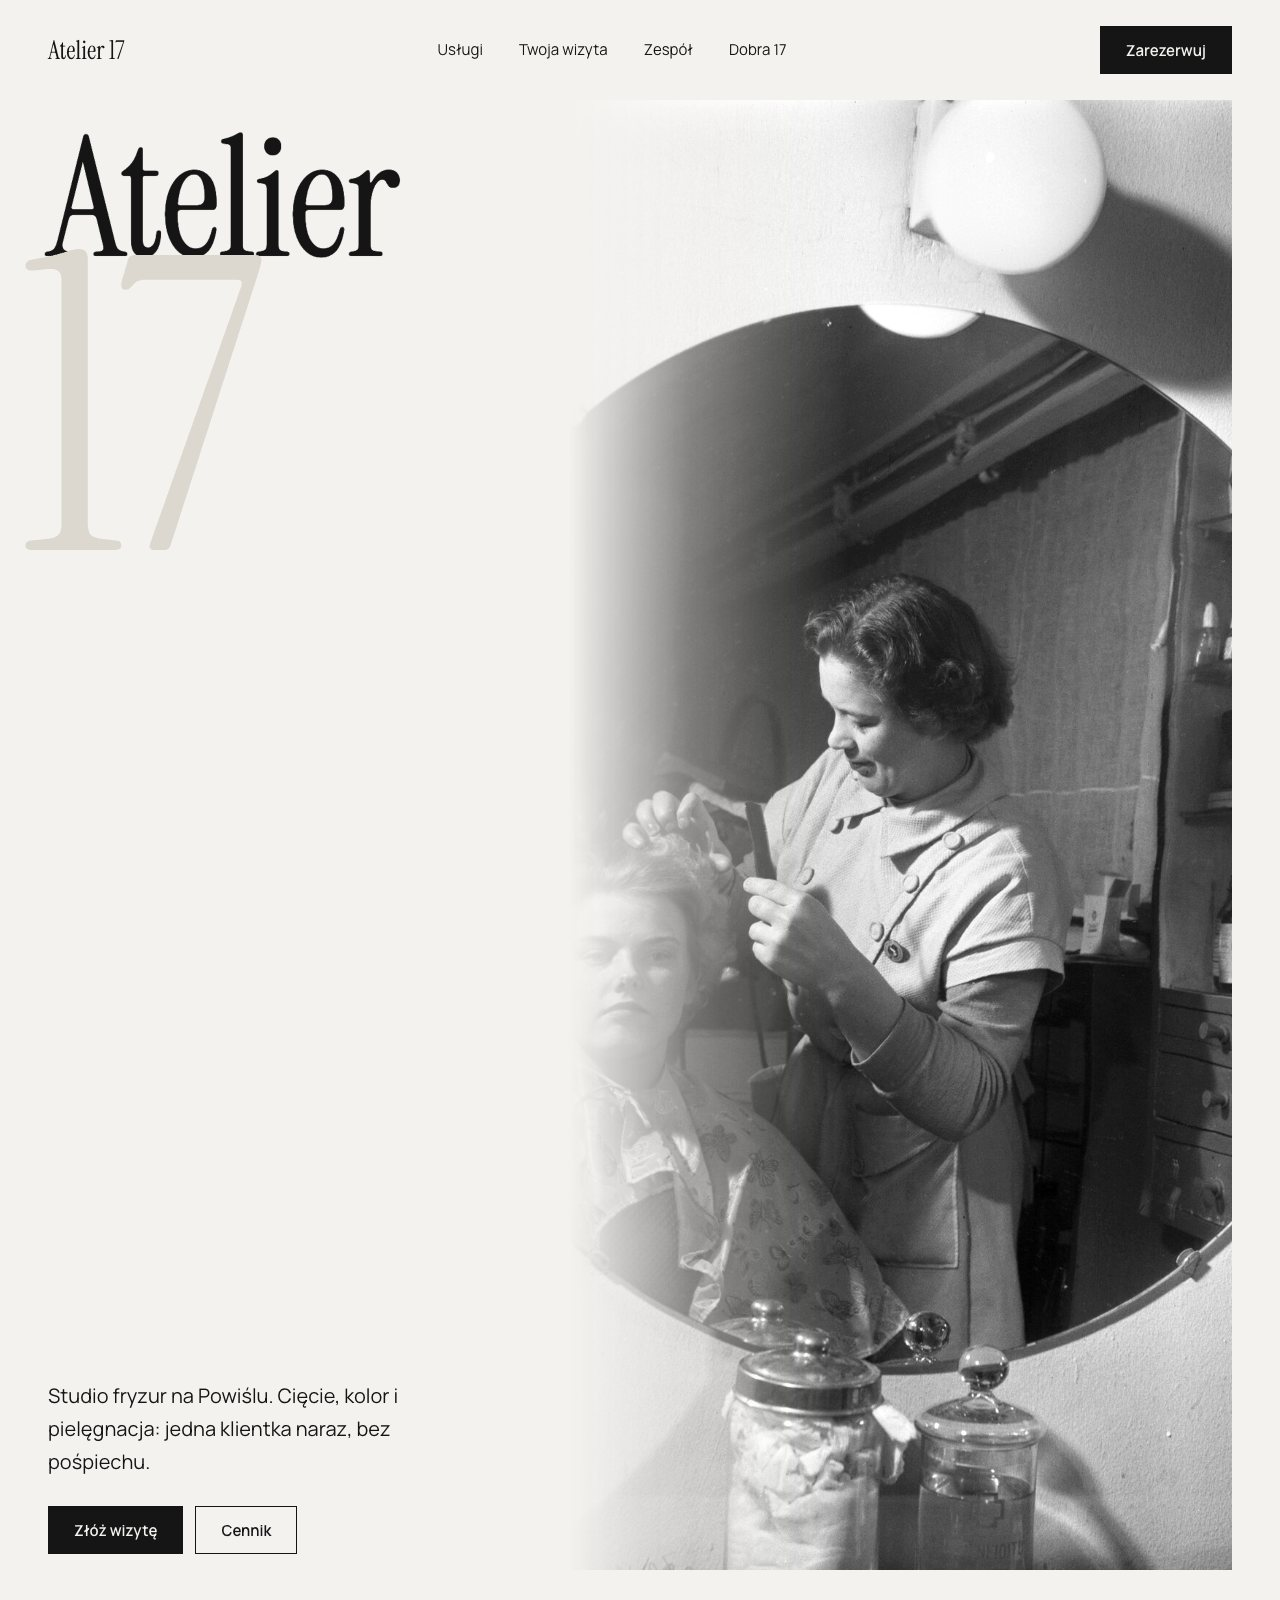
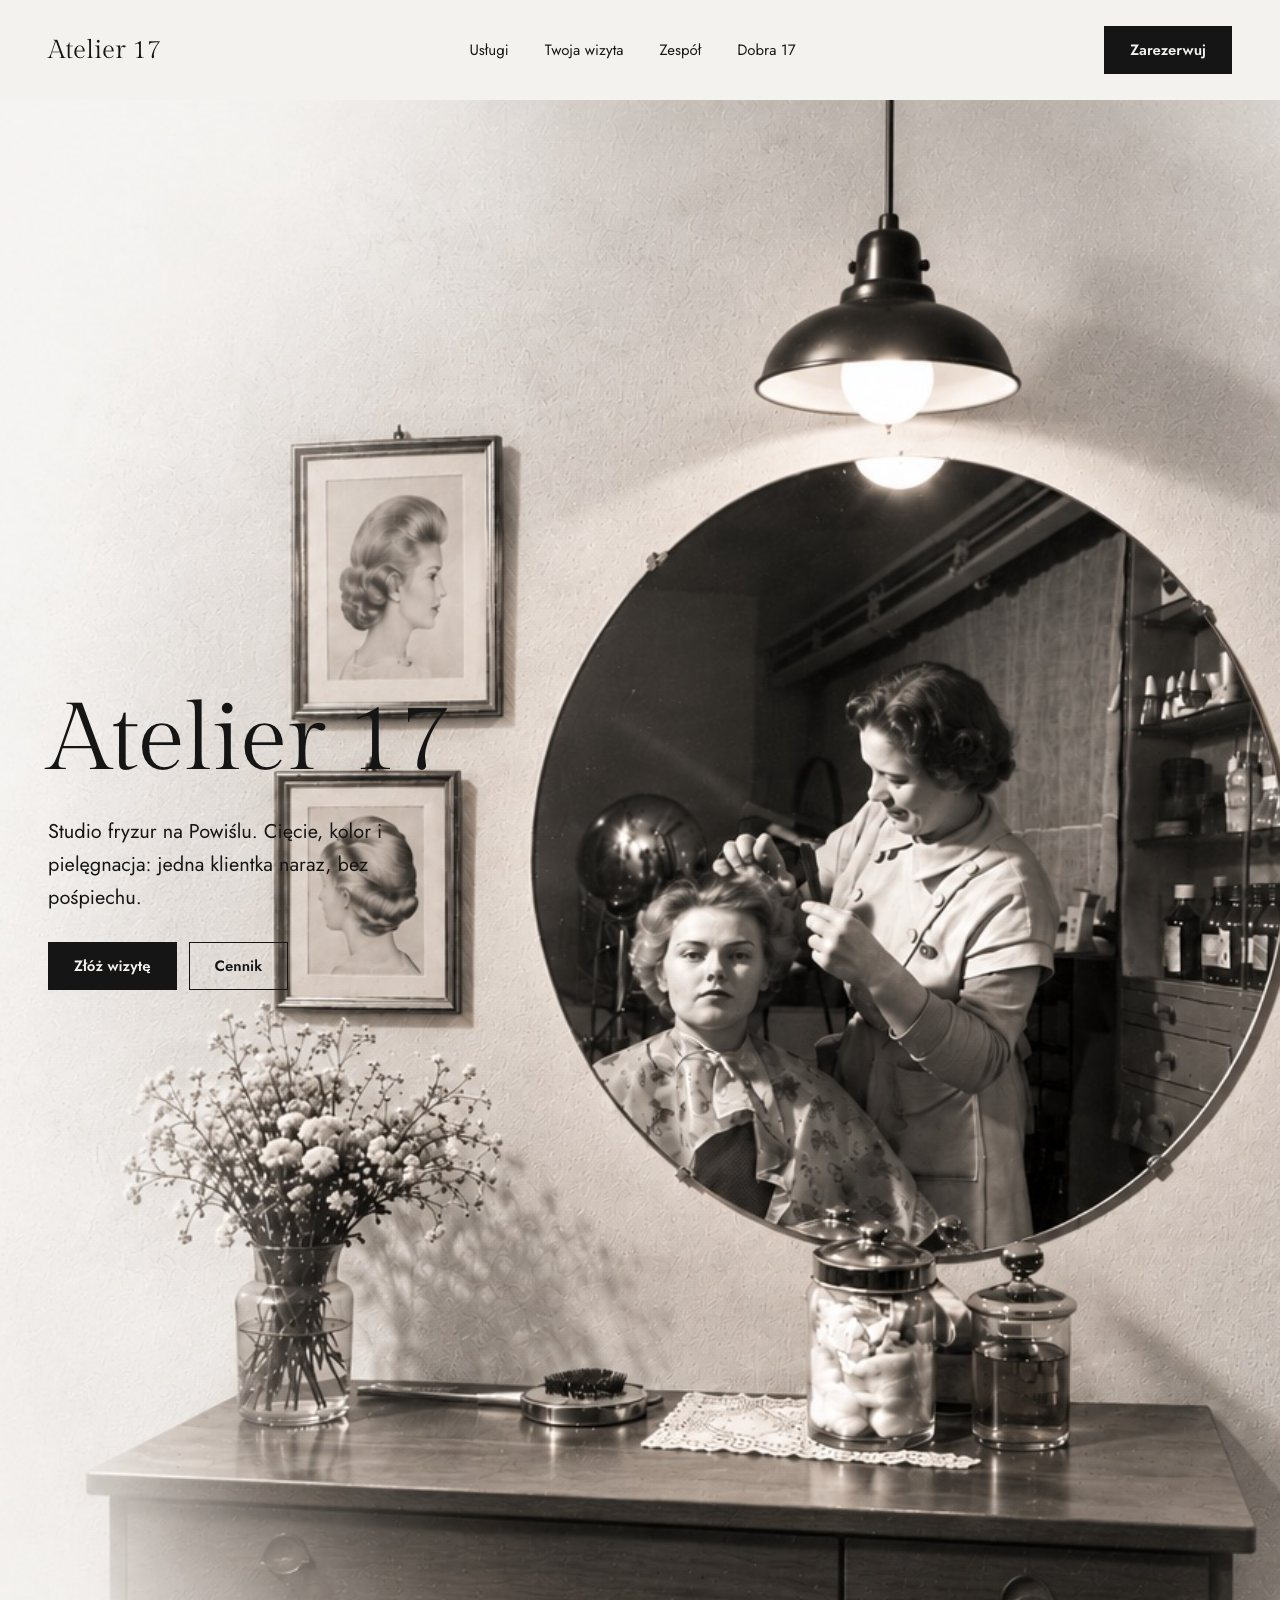
Atelier 17: nowy kadr pierwszego ekranu (lustro i toaletka), Gilda Display + Jost

diff --git a/design/concepts/atelier-17.html b/design/concepts/atelier-17.html
@@ -8,12 +8,12 @@
 <meta name="robots" content="noindex">
 <link rel="preconnect" href="https://fonts.googleapis.com">
 <link rel="preconnect" href="https://fonts.gstatic.com" crossorigin>
-<link href="https://fonts.googleapis.com/css2?family=Instrument+Serif:ital@0;1&family=Manrope:wght@400;500;600&display=swap" rel="stylesheet">
+<link href="https://fonts.googleapis.com/css2?family=Gilda+Display&family=Jost:wght@400;500;600&display=swap" rel="stylesheet">
 <script>document.documentElement.classList.add("js")</script>
 <style>
   :root {
     --white:#f4f2ef; --stone:#dcd7cf; --stone-2:#e9e5df; --ink:#151515; --ink-2:#3f3d3a; --mute:#6e6a64; --clay:#a35d43; --clay-deep:#8a4a33; --night:#151515; --night-ink:#c9c4bc;
-    --display:"Instrument Serif", Georgia, serif; --text:"Manrope", system-ui, sans-serif;
+    --display:"Gilda Display", "Didot", Georgia, serif; --text:"Jost", "Futura", system-ui, sans-serif;
     --ease-out:cubic-bezier(.22,1,.36,1); --gutter:48px;
   }
   * { box-sizing:border-box; margin:0; }
@@ -50,17 +50,16 @@
   .sheet a:not(.btn) { font:400 56px/1.15 var(--display); text-decoration:none; }
   .sheet .btn { margin-top:28px; align-self:start; }
 
-  .hero { display:grid; grid-template-columns:minmax(0,1fr) minmax(0,1fr); padding:0 var(--gutter); min-height:calc(100svh - 90px); }
-  .hero .l { display:flex; flex-direction:column; justify-content:space-between; padding:32px 48px 56px 0; gap:40px; }
-  .hero h1 { font-size:clamp(90px, 13vw, 210px); line-height:.82; animation:fade 1400ms var(--ease-out) both; }
-  .hero .num { font-size:clamp(240px, 32vw, 500px); line-height:.7; color:var(--stone); margin-left:-.06em; animation:door 1600ms 200ms var(--ease-out) both; }
+  .hero { position:relative; isolation:isolate; overflow:hidden; display:grid; grid-template-columns:minmax(0, 520px) 1fr; padding:0 var(--gutter); min-height:calc(100svh - 90px); background:#ece7df; }
+  .hero .l { display:flex; flex-direction:column; justify-content:center; padding:48px 0 72px; gap:30px; }
+  .hero h1 { font-size:clamp(64px, 7.4vw, 124px); line-height:.95; letter-spacing:-.01em; animation:fade 1400ms var(--ease-out) both; }
   @keyframes fade { from { opacity:0; transform:translateY(20px); } to { opacity:1; transform:none; } }
   @keyframes door { from { opacity:0; letter-spacing:.2em; } to { opacity:1; letter-spacing:-.01em; } }
   .hero p { max-width:34ch; font-size:20px; }
   .hero .acts { display:flex; gap:12px; flex-wrap:wrap; margin-top:28px; }
-  .hero figure { height:calc(100svh - 130px); min-height:620px; overflow:hidden; margin-left:-12%; -webkit-mask-image:linear-gradient(to right, transparent 0, rgba(0,0,0,.55) 18%, #000 42%); mask-image:linear-gradient(to right, transparent 0, rgba(0,0,0,.55) 18%, #000 42%); }
+  .hero figure { position:absolute; inset:0; z-index:-1; margin:0; }
   .hero .l { position:relative; z-index:2; }
-  .hero img { width:100%; height:100%; object-fit:cover; filter:grayscale(1) contrast(1.05); animation:settle 2400ms var(--ease-out) both; }
+  .hero img { width:100%; height:100%; object-fit:cover; object-position:68% 45%; animation:settle 2400ms var(--ease-out) both; }
   @keyframes settle { from { transform:scale(1.07); } to { transform:none; } }
 
   .one { display:grid; grid-template-columns:minmax(0,.9fr) minmax(0,1.1fr); gap:72px; padding:144px var(--gutter); align-items:center; }
@@ -149,8 +148,7 @@
   @media (max-width:760px) {
     :root { --gutter:20px; }
     nav.top { padding:18px 20px; } nav.top .links, nav.top > .btn { display:none; } .menu-btn { display:block; }
-    .hero { grid-template-columns:1fr; min-height:0; } .hero .l { padding:16px 0 40px; gap:28px; } .hero figure { height:480px; min-height:0; margin:-40px -20px 0; -webkit-mask-image:linear-gradient(to bottom, transparent 0, #000 34%); mask-image:linear-gradient(to bottom, transparent 0, #000 34%); }
-    .hero .num { font-size:200px; }
+    .hero { display:flex; flex-direction:column-reverse; min-height:0; padding:0; background:var(--white); } .hero .l { padding:28px 20px 44px; gap:22px; } .hero figure { position:relative; inset:auto; z-index:0; height:min(78vw, 360px); } .hero img { object-position:72% 50%; }
     .one { grid-template-columns:1fr; padding:80px 20px; gap:40px; } .one .cols { grid-template-columns:1fr; gap:24px; }
     .services { padding:80px 20px; } .services-head { flex-direction:column; align-items:start; margin-bottom:40px; } .groups { grid-template-columns:1fr; gap:44px; }
       .plan { padding:80px 20px; } .plan-head { grid-template-columns:1fr; gap:16px; margin-bottom:40px; } .plan-head p { justify-self:start; }
@@ -181,13 +179,13 @@
 <main id="top">
 <section class="hero">
   <div class="l">
-    <div><h1 class="it">Atelier</h1><div class="it num" aria-hidden="true">17</div></div>
+    <h1 class="it">Atelier&nbsp;17</h1>
     <div>
       <p>Studio fryzur na Powiślu. Cięcie, kolor i pielęgnacja: jedna klientka naraz, bez pośpiechu.</p>
       <div class="acts"><a class="btn" href="#wizyta">Złóż wizytę</a><a class="btn line" href="#uslugi">Cennik</a></div>
     </div>
   </div>
-  <figure><img src="assets/hairdresser.jpg" width="1920" height="2014" alt="Fryzjerka układa włosy klientki, oboje odbici w okrągłym lustrze, fotografia z 1953 roku"></figure>
+  <figure><img src="assets/atelier-lustro.jpg" width="1536" height="1024" alt="Okrągłe lustro nad toaletką: fryzjerka układa fale klientce, obok wazon z gipsówką i ryciny fryzur w ramkach" fetchpriority="high"></figure>
 </section>
 
 <section class="one" data-reveal>
@@ -300,7 +298,7 @@
 <footer>
   <div class="big it" aria-hidden="true">17</div>
   <div class="row"><span>Atelier 17, studio fryzur<br>ul. Dobra 17, Powiśle</span><span>Strona: ROVBA Design</span></div>
-  <p class="credits">Zdjęcia: <a href="https://commons.wikimedia.org/wiki/File:Hairdresser_1953_(JOKAUAS2_2203-10).tif">fryzjerka przy lustrze, 1953</a> U. A. Saarinen, CC BY 4.0; <a href="https://commons.wikimedia.org/wiki/File:Harry_Fell,_hairdresser,_Melbourne,_28_October_1952_-_Flickr_-_State_Library_of_NSW.jpg">Harry Fell, 1952</a> State Library of New South Wales, bez znanych ograniczeń; <a href="https://www.rawpixel.com/image/8736354/beauty-shop-1943-oak-ridge">salon w Oak Ridge, 1943</a> US DOE, CC0; <a href="https://commons.wikimedia.org/wiki/File:Cutting_hair_-_haircuts.jpg">cięcie</a>, <a href="https://commons.wikimedia.org/wiki/File:Tinting_Brush_for_Dying_Hair.jpg">pędzel do koloru</a> i <a href="https://commons.wikimedia.org/wiki/File:Pamper_Day_-_Haircare_Products_-_50888163522.jpg">pielęgnacja</a> geehairimages, CC BY 2.0; <a href="https://commons.wikimedia.org/wiki/File:Warszawa_Powi%C5%9Ble_train_station.07.jpg">stacja Powiśle</a> Nenea hartia, CC BY-SA 4.0; <a href="https://commons.wikimedia.org/w/index.php?curid=42157137">bulwary</a> Dariusz Kowalczyk, CC BY-SA 4.0. Zdjęcia nie przedstawiają salonu Atelier 17.</p>
+  <p class="credits">Kadr pierwszego ekranu: wizualizacja przygotowana dla projektu. Zdjęcia: <a href="https://commons.wikimedia.org/wiki/File:Harry_Fell,_hairdresser,_Melbourne,_28_October_1952_-_Flickr_-_State_Library_of_NSW.jpg">Harry Fell, 1952</a> State Library of New South Wales, bez znanych ograniczeń; <a href="https://www.rawpixel.com/image/8736354/beauty-shop-1943-oak-ridge">salon w Oak Ridge, 1943</a> US DOE, CC0; <a href="https://commons.wikimedia.org/wiki/File:Cutting_hair_-_haircuts.jpg">cięcie</a>, <a href="https://commons.wikimedia.org/wiki/File:Tinting_Brush_for_Dying_Hair.jpg">pędzel do koloru</a> i <a href="https://commons.wikimedia.org/wiki/File:Pamper_Day_-_Haircare_Products_-_50888163522.jpg">pielęgnacja</a> geehairimages, CC BY 2.0; <a href="https://commons.wikimedia.org/wiki/File:Warszawa_Powi%C5%9Ble_train_station.07.jpg">stacja Powiśle</a> Nenea hartia, CC BY-SA 4.0; <a href="https://commons.wikimedia.org/w/index.php?curid=42157137">bulwary</a> Dariusz Kowalczyk, CC BY-SA 4.0. Zdjęcia nie przedstawiają salonu Atelier 17.</p>
 </footer>
 
 <script src="assets/concept.js"></script>

diff --git a/public/demo/concepts/atelier-17.html b/public/demo/concepts/atelier-17.html
@@ -8,12 +8,12 @@
 <meta name="robots" content="noindex">
 <link rel="preconnect" href="https://fonts.googleapis.com">
 <link rel="preconnect" href="https://fonts.gstatic.com" crossorigin>
-<link href="https://fonts.googleapis.com/css2?family=Instrument+Serif:ital@0;1&family=Manrope:wght@400;500;600&display=swap" rel="stylesheet">
+<link href="https://fonts.googleapis.com/css2?family=Gilda+Display&family=Jost:wght@400;500;600&display=swap" rel="stylesheet">
 <script>document.documentElement.classList.add("js")</script>
 <style>
   :root {
     --white:#f4f2ef; --stone:#dcd7cf; --stone-2:#e9e5df; --ink:#151515; --ink-2:#3f3d3a; --mute:#6e6a64; --clay:#a35d43; --clay-deep:#8a4a33; --night:#151515; --night-ink:#c9c4bc;
-    --display:"Instrument Serif", Georgia, serif; --text:"Manrope", system-ui, sans-serif;
+    --display:"Gilda Display", "Didot", Georgia, serif; --text:"Jost", "Futura", system-ui, sans-serif;
     --ease-out:cubic-bezier(.22,1,.36,1); --gutter:48px;
   }
   * { box-sizing:border-box; margin:0; }
@@ -50,17 +50,16 @@
   .sheet a:not(.btn) { font:400 56px/1.15 var(--display); text-decoration:none; }
   .sheet .btn { margin-top:28px; align-self:start; }
 
-  .hero { display:grid; grid-template-columns:minmax(0,1fr) minmax(0,1fr); padding:0 var(--gutter); min-height:calc(100svh - 90px); }
-  .hero .l { display:flex; flex-direction:column; justify-content:space-between; padding:32px 48px 56px 0; gap:40px; }
-  .hero h1 { font-size:clamp(90px, 13vw, 210px); line-height:.82; animation:fade 1400ms var(--ease-out) both; }
-  .hero .num { font-size:clamp(240px, 32vw, 500px); line-height:.7; color:var(--stone); margin-left:-.06em; animation:door 1600ms 200ms var(--ease-out) both; }
+  .hero { position:relative; isolation:isolate; overflow:hidden; display:grid; grid-template-columns:minmax(0, 520px) 1fr; padding:0 var(--gutter); min-height:calc(100svh - 90px); background:#ece7df; }
+  .hero .l { display:flex; flex-direction:column; justify-content:center; padding:48px 0 72px; gap:30px; }
+  .hero h1 { font-size:clamp(64px, 7.4vw, 124px); line-height:.95; letter-spacing:-.01em; animation:fade 1400ms var(--ease-out) both; }
   @keyframes fade { from { opacity:0; transform:translateY(20px); } to { opacity:1; transform:none; } }
   @keyframes door { from { opacity:0; letter-spacing:.2em; } to { opacity:1; letter-spacing:-.01em; } }
   .hero p { max-width:34ch; font-size:20px; }
   .hero .acts { display:flex; gap:12px; flex-wrap:wrap; margin-top:28px; }
-  .hero figure { height:calc(100svh - 130px); min-height:620px; overflow:hidden; margin-left:-12%; -webkit-mask-image:linear-gradient(to right, transparent 0, rgba(0,0,0,.55) 18%, #000 42%); mask-image:linear-gradient(to right, transparent 0, rgba(0,0,0,.55) 18%, #000 42%); }
+  .hero figure { position:absolute; inset:0; z-index:-1; margin:0; }
   .hero .l { position:relative; z-index:2; }
-  .hero img { width:100%; height:100%; object-fit:cover; filter:grayscale(1) contrast(1.05); animation:settle 2400ms var(--ease-out) both; }
+  .hero img { width:100%; height:100%; object-fit:cover; object-position:68% 45%; animation:settle 2400ms var(--ease-out) both; }
   @keyframes settle { from { transform:scale(1.07); } to { transform:none; } }
 
   .one { display:grid; grid-template-columns:minmax(0,.9fr) minmax(0,1.1fr); gap:72px; padding:144px var(--gutter); align-items:center; }
@@ -149,8 +148,7 @@
   @media (max-width:760px) {
     :root { --gutter:20px; }
     nav.top { padding:18px 20px; } nav.top .links, nav.top > .btn { display:none; } .menu-btn { display:block; }
-    .hero { grid-template-columns:1fr; min-height:0; } .hero .l { padding:16px 0 40px; gap:28px; } .hero figure { height:480px; min-height:0; margin:-40px -20px 0; -webkit-mask-image:linear-gradient(to bottom, transparent 0, #000 34%); mask-image:linear-gradient(to bottom, transparent 0, #000 34%); }
-    .hero .num { font-size:200px; }
+    .hero { display:flex; flex-direction:column-reverse; min-height:0; padding:0; background:var(--white); } .hero .l { padding:28px 20px 44px; gap:22px; } .hero figure { position:relative; inset:auto; z-index:0; height:min(78vw, 360px); } .hero img { object-position:72% 50%; }
     .one { grid-template-columns:1fr; padding:80px 20px; gap:40px; } .one .cols { grid-template-columns:1fr; gap:24px; }
     .services { padding:80px 20px; } .services-head { flex-direction:column; align-items:start; margin-bottom:40px; } .groups { grid-template-columns:1fr; gap:44px; }
       .plan { padding:80px 20px; } .plan-head { grid-template-columns:1fr; gap:16px; margin-bottom:40px; } .plan-head p { justify-self:start; }
@@ -181,13 +179,13 @@
 <main id="top">
 <section class="hero">
   <div class="l">
-    <div><h1 class="it">Atelier</h1><div class="it num" aria-hidden="true">17</div></div>
+    <h1 class="it">Atelier&nbsp;17</h1>
     <div>
       <p>Studio fryzur na Powiślu. Cięcie, kolor i pielęgnacja: jedna klientka naraz, bez pośpiechu.</p>
       <div class="acts"><a class="btn" href="#wizyta">Złóż wizytę</a><a class="btn line" href="#uslugi">Cennik</a></div>
     </div>
   </div>
-  <figure><img src="assets/hairdresser.jpg" width="1920" height="2014" alt="Fryzjerka układa włosy klientki, oboje odbici w okrągłym lustrze, fotografia z 1953 roku"></figure>
+  <figure><img src="assets/atelier-lustro.jpg" width="1536" height="1024" alt="Okrągłe lustro nad toaletką: fryzjerka układa fale klientce, obok wazon z gipsówką i ryciny fryzur w ramkach" fetchpriority="high"></figure>
 </section>
 
 <section class="one" data-reveal>
@@ -300,7 +298,7 @@
 <footer>
   <div class="big it" aria-hidden="true">17</div>
   <div class="row"><span>Atelier 17, studio fryzur<br>ul. Dobra 17, Powiśle</span><span>Strona: ROVBA Design</span></div>
-  <p class="credits">Zdjęcia: <a href="https://commons.wikimedia.org/wiki/File:Hairdresser_1953_(JOKAUAS2_2203-10).tif">fryzjerka przy lustrze, 1953</a> U. A. Saarinen, CC BY 4.0; <a href="https://commons.wikimedia.org/wiki/File:Harry_Fell,_hairdresser,_Melbourne,_28_October_1952_-_Flickr_-_State_Library_of_NSW.jpg">Harry Fell, 1952</a> State Library of New South Wales, bez znanych ograniczeń; <a href="https://www.rawpixel.com/image/8736354/beauty-shop-1943-oak-ridge">salon w Oak Ridge, 1943</a> US DOE, CC0; <a href="https://commons.wikimedia.org/wiki/File:Cutting_hair_-_haircuts.jpg">cięcie</a>, <a href="https://commons.wikimedia.org/wiki/File:Tinting_Brush_for_Dying_Hair.jpg">pędzel do koloru</a> i <a href="https://commons.wikimedia.org/wiki/File:Pamper_Day_-_Haircare_Products_-_50888163522.jpg">pielęgnacja</a> geehairimages, CC BY 2.0; <a href="https://commons.wikimedia.org/wiki/File:Warszawa_Powi%C5%9Ble_train_station.07.jpg">stacja Powiśle</a> Nenea hartia, CC BY-SA 4.0; <a href="https://commons.wikimedia.org/w/index.php?curid=42157137">bulwary</a> Dariusz Kowalczyk, CC BY-SA 4.0. Zdjęcia nie przedstawiają salonu Atelier 17.</p>
+  <p class="credits">Kadr pierwszego ekranu: wizualizacja przygotowana dla projektu. Zdjęcia: <a href="https://commons.wikimedia.org/wiki/File:Harry_Fell,_hairdresser,_Melbourne,_28_October_1952_-_Flickr_-_State_Library_of_NSW.jpg">Harry Fell, 1952</a> State Library of New South Wales, bez znanych ograniczeń; <a href="https://www.rawpixel.com/image/8736354/beauty-shop-1943-oak-ridge">salon w Oak Ridge, 1943</a> US DOE, CC0; <a href="https://commons.wikimedia.org/wiki/File:Cutting_hair_-_haircuts.jpg">cięcie</a>, <a href="https://commons.wikimedia.org/wiki/File:Tinting_Brush_for_Dying_Hair.jpg">pędzel do koloru</a> i <a href="https://commons.wikimedia.org/wiki/File:Pamper_Day_-_Haircare_Products_-_50888163522.jpg">pielęgnacja</a> geehairimages, CC BY 2.0; <a href="https://commons.wikimedia.org/wiki/File:Warszawa_Powi%C5%9Ble_train_station.07.jpg">stacja Powiśle</a> Nenea hartia, CC BY-SA 4.0; <a href="https://commons.wikimedia.org/w/index.php?curid=42157137">bulwary</a> Dariusz Kowalczyk, CC BY-SA 4.0. Zdjęcia nie przedstawiają salonu Atelier 17.</p>
 </footer>
 
 <script src="assets/concept.js"></script>

diff --git a/src/data/projects.ts b/src/data/projects.ts
@@ -514,11 +514,4 @@ export const imageCredits = [
     licence: "CC BY-SA 4.0",
     url: "https://commons.wikimedia.org/wiki/File:DSCF1083_Vintage_red_barber_chairs_in_a_rustic_wooden_shop_waiting_for_the_next_customer.jpg",
   },
-  {
-    project: "atelier-17",
-    title: "Hairdresser (1953)",
-    author: "U. A. Saarinen",
-    licence: "CC BY 4.0",
-    url: "https://commons.wikimedia.org/wiki/File:Hairdresser_1953_(JOKAUAS2_2203-10).tif",
-  },
 ];
